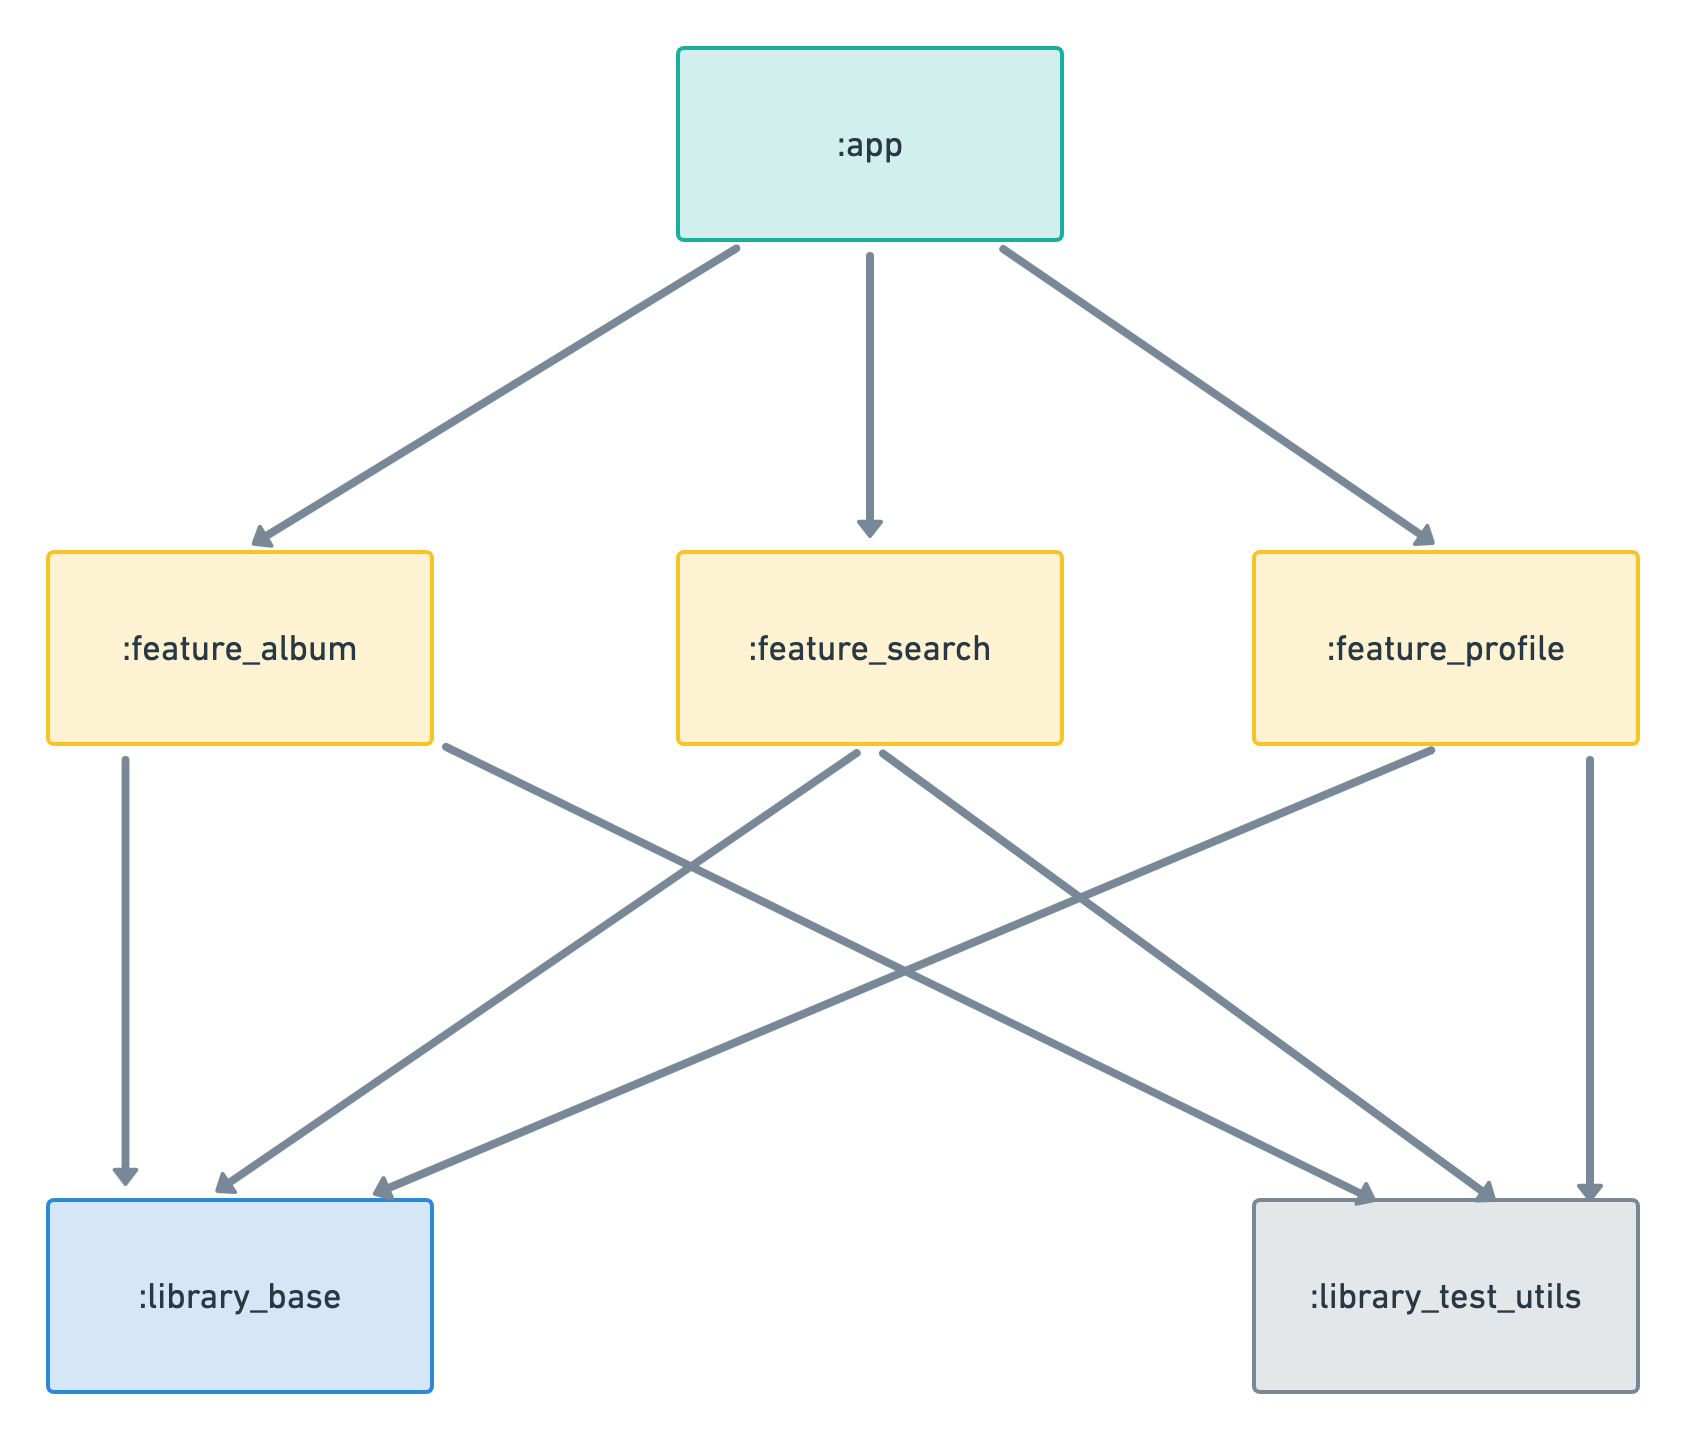
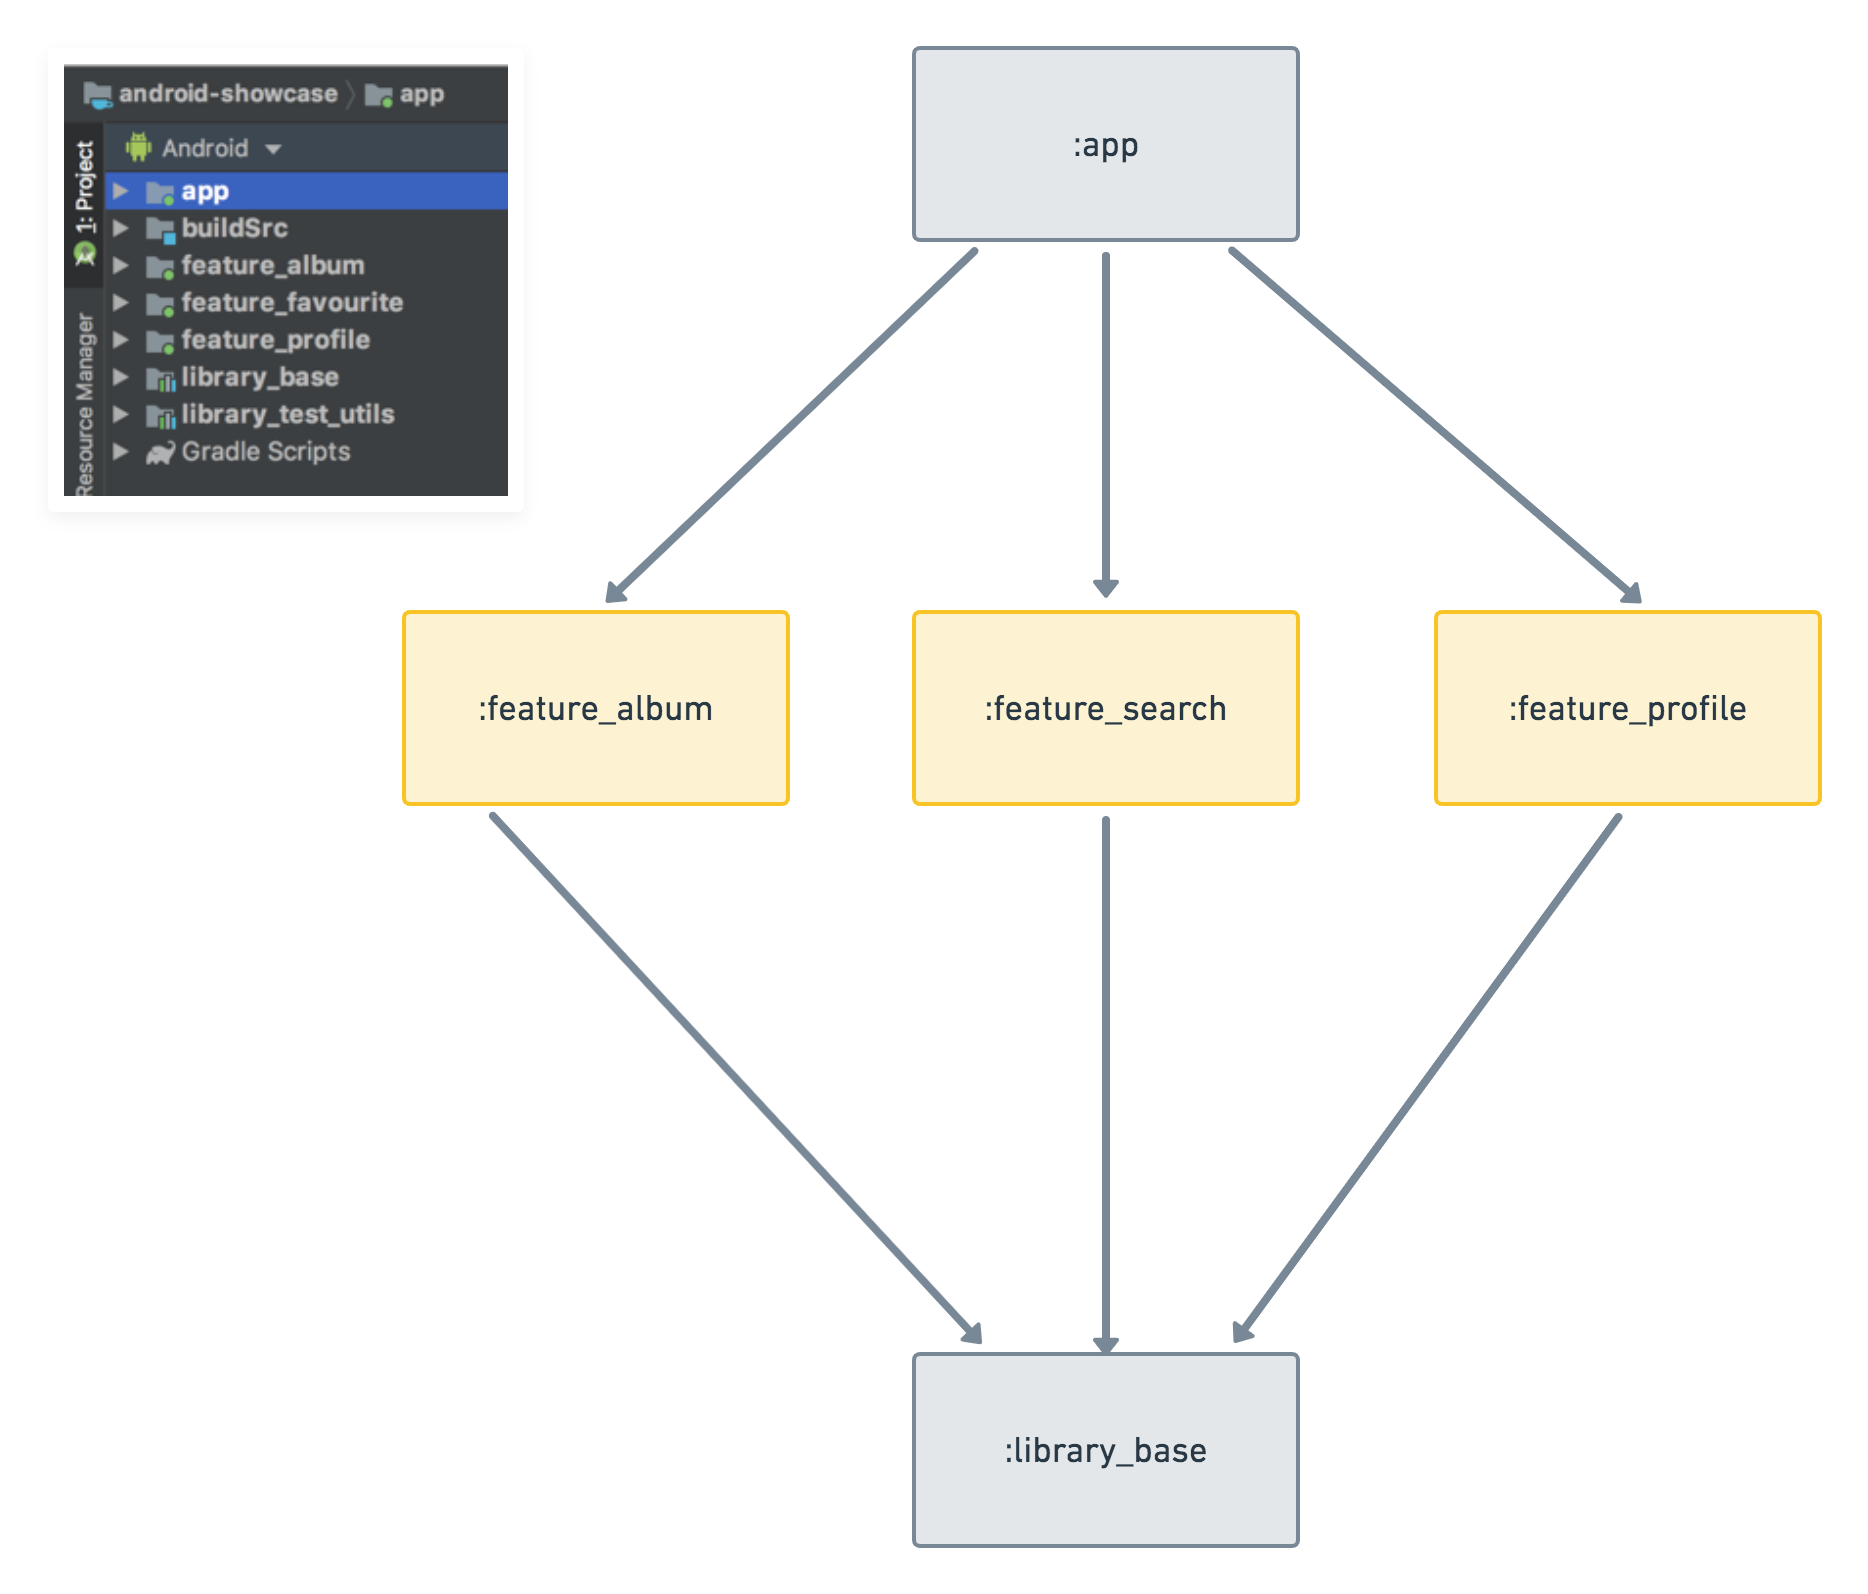
Updated description and added data flow diagram

diff --git a/README.md b/README.md
@@ -1,6 +1,7 @@
 # Project description
 [![CircleCI](https://circleci.com/gh/igorwojda/android-showcase.svg?style=shield)](https://circleci.com/gh/igorwojda/android-showcase)
 [![Kotlin Version](https://img.shields.io/badge/kotlin-1.3.41-blue.svg)](http://kotlinlang.org/)
+[![API](https://img.shields.io/badge/API-21%2B-brightgreen.svg?style=flat)](https://android-arsenal.com/api?level=21)
 
 [![codebeat badge](https://codebeat.co/badges/7f632064-0be5-450f-b29f-f0e1460582ab)](https://codebeat.co/projects/github-com-igorwojda-android-showcase-master)
 [![Codacy Badge](https://api.codacy.com/project/badge/Grade/a7ef0746703e4c81b0e4af2c46e2885e)](https://app.codacy.com/app/igorwojda/android-showcase?utm_source=github.com&utm_medium=referral&utm_content=igorwojda/android-showcase&utm_campaign=Badge_Grade_Dashboard)
@@ -8,12 +9,15 @@
 
 
 Showcase is a sample project that presents modern, 2019 approach to
-[Android](https://en.wikipedia.org/wiki/Android_(operating_system)) application development using [Kotlin](https://kotlinlang.org/) and latest tech-stack.
+[Android](https://en.wikipedia.org/wiki/Android_(operating_system)) application development using
+[Kotlin](https://kotlinlang.org/) and latest tech-stack.
 
-The goal of the project is to demonstrate best practices, provide guidance and present flexible application architecture (modular, scalable, maintainable and testable architecture suitable for growing teams and longer
-[application lifecycle](https://en.wikipedia.org/wiki/Application_lifecycle_management)).
+The goal of the project is to demonstrate best practices, provide guidance and present flexible application architecture
+(modular, scalable, maintainable and testable architecture suitable for growing teams and longer
+[application lifecycle](https://en.wikipedia.org/wiki/Application_lifecycle_management)). Many of the project design
+decisions follows or even extends official Google recommendations.
 
-`Android showcase` will be heavily maintained to match up to date industry standards.
+`Android showcase` is being heavily maintained to match up to date industry standards.
 
 ## Project characteristics
 
@@ -30,7 +34,10 @@ This project bring to table set of best practices, tools and solutions:
 
 ## Tech-stack
 
-This project takes advantage of many popular libraries and tools of the Android ecosystem:
+Min API level is set to [`21`](https://android-arsenal.com/api?level=21), so presented approach is suitable for over
+[85% of devices](https://developer.android.com/about/dashboards) running Android. This project takes advantage of many
+popular libraries and tools of the Android ecosystem. Most of the libraries are in stable version, unless there is a
+good reason to use non-stable dependency.
 
 * Core
     * Android SDK
@@ -75,13 +82,23 @@ This project takes advantage of many popular libraries and tools of the Android 
 
 ### Module dependencies
 
-<img src="misc/image/module_dependencies.png" width="600"/>
+This is simplified diagram of dependencies between gradle modules.
+
+<p align="center">
+    <img src="https://github.com/igorwojda/android-showcase/blob/master/misc/image/module_dependencies.png" alt="Drawing" style="width: 600px;"/>
+</p>
 
 ### Feature structure
-Each feature contains own set of the Clean Architecture layers (`Presentation`/`Domain`/`Data`). This allows for feature
-to be developed in isolation and scaled independently from other features.
 
-![feature_structure.png](misc/image/feature_structure.png)
+Each feature is maximally isolated (code contained in the feature module) to provide better separation of concerns in
+the codebase. Single feature contains own set of the Clean Architecture layers (`Presentation`/`Domain`/`Data`), so it
+can be developed in isolation, independently from other features.
+
+![feature_structure](https://github.com/igorwojda/android-showcase/blob/master/misc/image/feature_structure.png?raw=true)
+
+### App data flow
+
+![app_data_flow](https://github.com/igorwojda/android-showcase/blob/master/misc/image/app_data_flow.png?raw=true)
 
 ## Ci pipeline
 
@@ -90,9 +107,12 @@ static checks and tests complete successfully.
 
 ![ci_pipeline.jpg](misc/image/ci_pipeline.jpg)
 
+## What this project does not cover?
+The interface of the app utilises some of modern material design components, however is deliberately kept simple to
+focus on architecture.
+
 ## Improvements
 
- There are many things I personally want to try, play with and add to `android-showcase` project:
 * Support for DayNight MaterialTheme
 * [Dynamic Feature modules](https://developer.android.com/studio/projects/dynamic-delivery) + Android Dynamic delivery
 * Caching layer (memory + disk)
@@ -102,8 +122,7 @@ static checks and tests complete successfully.
 * Custom lint, ktlint and detekt tasks
 * Add script to update all dependencies in the project, create PR to run all checks
 * Continuous deployment (automatically publish app to Google play store using CI)
-* …
-* 100+ other things to try, explore and potentially add here (seriously 🤓)
+* and more…
 
 ## Contribute
 Feedback and new contributions are welcome whether it's through bug reports or new PRs.
